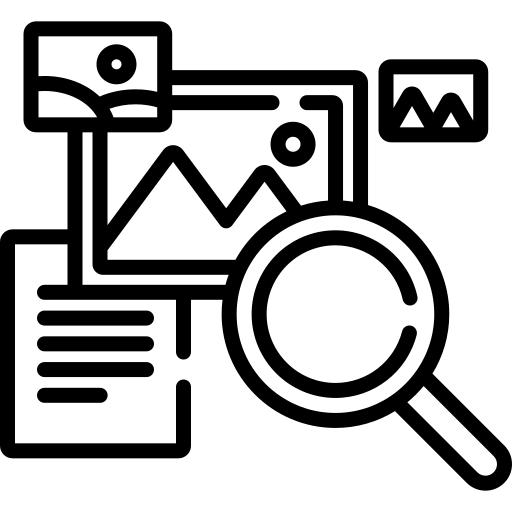
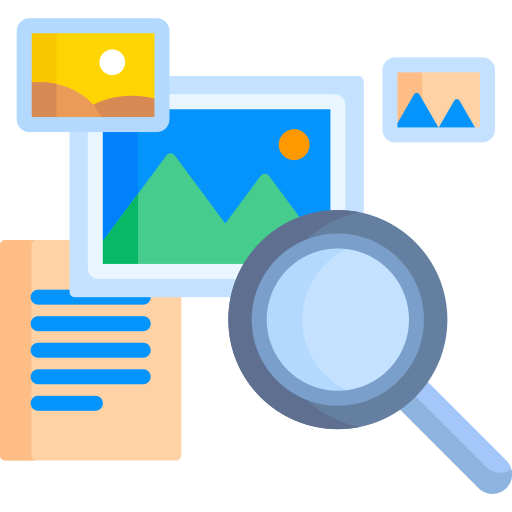
finalized gptr documentation page

diff --git a/docs/src/components/HomepageFeatures.js b/docs/src/components/HomepageFeatures.js
@@ -6,7 +6,7 @@ import styles from './HomepageFeatures.module.css';
 const FeatureList = [
   {
     title: 'GPT Researcher',
-    Svg: require('../../static/img/favicon.ico').default,
+    Svg: require('../../static/img/gptr-logo.png').default,
     docLink: './docs/gpt-researcher/getting-started',
     description: (
       <>
@@ -24,6 +24,16 @@ const FeatureList = [
       </>
     ),
   },*/
+  {
+    title: 'Multi-Agent Assistant',
+    Svg: require('../../static/img/multi-agent.png').default,
+    docLink: './docs/gpt-researcher/langgraph',
+    description: (
+      <>
+        Learn how a team of AI agents can work together to conduct research on a given topic, from planning to publication.
+      </>
+    ),
+  },
   {
     title: 'Examples and Demos',
     Svg: require('../../static/img/examples.png').default,
@@ -56,7 +66,7 @@ function Feature({Svg, title, description, docLink}) {
 export default function HomepageFeatures() {
   return (
     <section className={styles.features}>
-      <div className="container" style={{marginTop: 25}}>
+      <div className="container" style={{marginTop: 40}}>
         <div className="row" style={{justifyContent: 'center'}}>
           {FeatureList.map((props, idx) => (
             <Feature key={idx} {...props} />

diff --git a/docs/sidebars.js b/docs/sidebars.js
@@ -21,13 +21,21 @@
         'gpt-researcher/introduction',
         'gpt-researcher/getting-started',
         'gpt-researcher/config',
+        'gpt-researcher/pip-package',
          'gpt-researcher/example',
          'gpt-researcher/tailored-research',
-         'gpt-researcher/agent_frameworks',
-        'gpt-researcher/pip-package',
         'gpt-researcher/troubleshooting',
       ],
     },
+    {
+      type: 'category',
+      label: 'Multi-Agent Frameworks',
+      collapsible: true,
+      collapsed: false,
+      items: [
+        'gpt-researcher/langgraph',
+        ]
+  },
     {'Examples': [{type: 'autogenerated', dirName: 'examples'}]},
     'contribute',
   ],

diff --git a/docs/docusaurus.config.js b/docs/docusaurus.config.js
@@ -19,7 +19,7 @@ module.exports = {
       title: 'GPT Researcher',
       logo: {
         alt: 'GPT Researcher',
-        src: 'img/favicon.ico',
+        src: 'img/gptr-logo.png',
       },
       items: [
         {

diff --git a/docs/src/pages/index.module.css b/docs/src/pages/index.module.css
@@ -6,7 +6,7 @@
  */
 
 .heroBanner {
-  padding: 8rem 0;
+  padding: 5rem 0;
   text-align: center;
   position: relative;
   overflow: hidden;